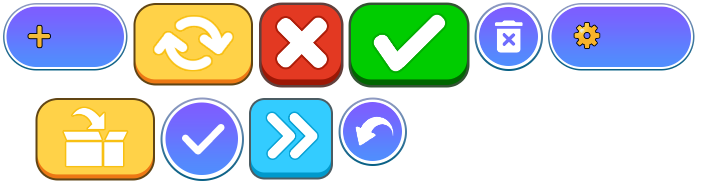
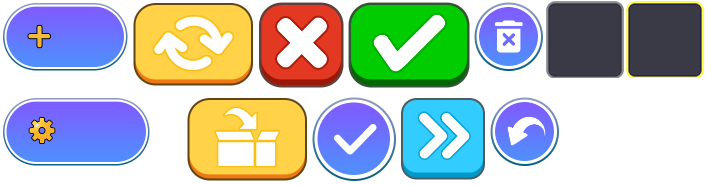
小屋装扮，ui调整

diff --git a/src/pica/render/ui/PicaDecorate/PicaDecoratePanel.ts b/src/pica/render/ui/PicaDecorate/PicaDecoratePanel.ts
@@ -61,10 +61,10 @@ export class PicaDecoratePanel extends PicaBasePanel {
         }
 
         if (!this.mBtn_SelectedFurniture) {
-            this.mBtn_SelectedFurniture = new ItemButton(this.scene, UIAtlasName.uicommon, "bag_icon_common_bg", this.dpr, this.scale, false);
+            this.mBtn_SelectedFurniture = new ItemButton(this.scene, this.key, "room_decorate_icon_default.png", this.dpr, this.scale, false);
             this.mBtn_SelectedFurniture.countTextColor = "#ffffff";
             this.mBtn_SelectedFurniture.countTextOffset = new LogicPos(this.mBtn_SelectedFurniture.width * 0.5 - 12 * this.dpr, this.mBtn_SelectedFurniture.height * 0.5 - 10 * this.dpr);
-            this.mBtn_SelectedFurniture.BGVisible = false;
+            this.mBtn_SelectedFurniture.BGVisible = true;
             this.mBtn_SelectedFurniture.x = 30 * this.dpr;
             this.mBtn_SelectedFurniture.y = this.mDynamicBtnsY;
             this.add(this.mBtn_SelectedFurniture);
